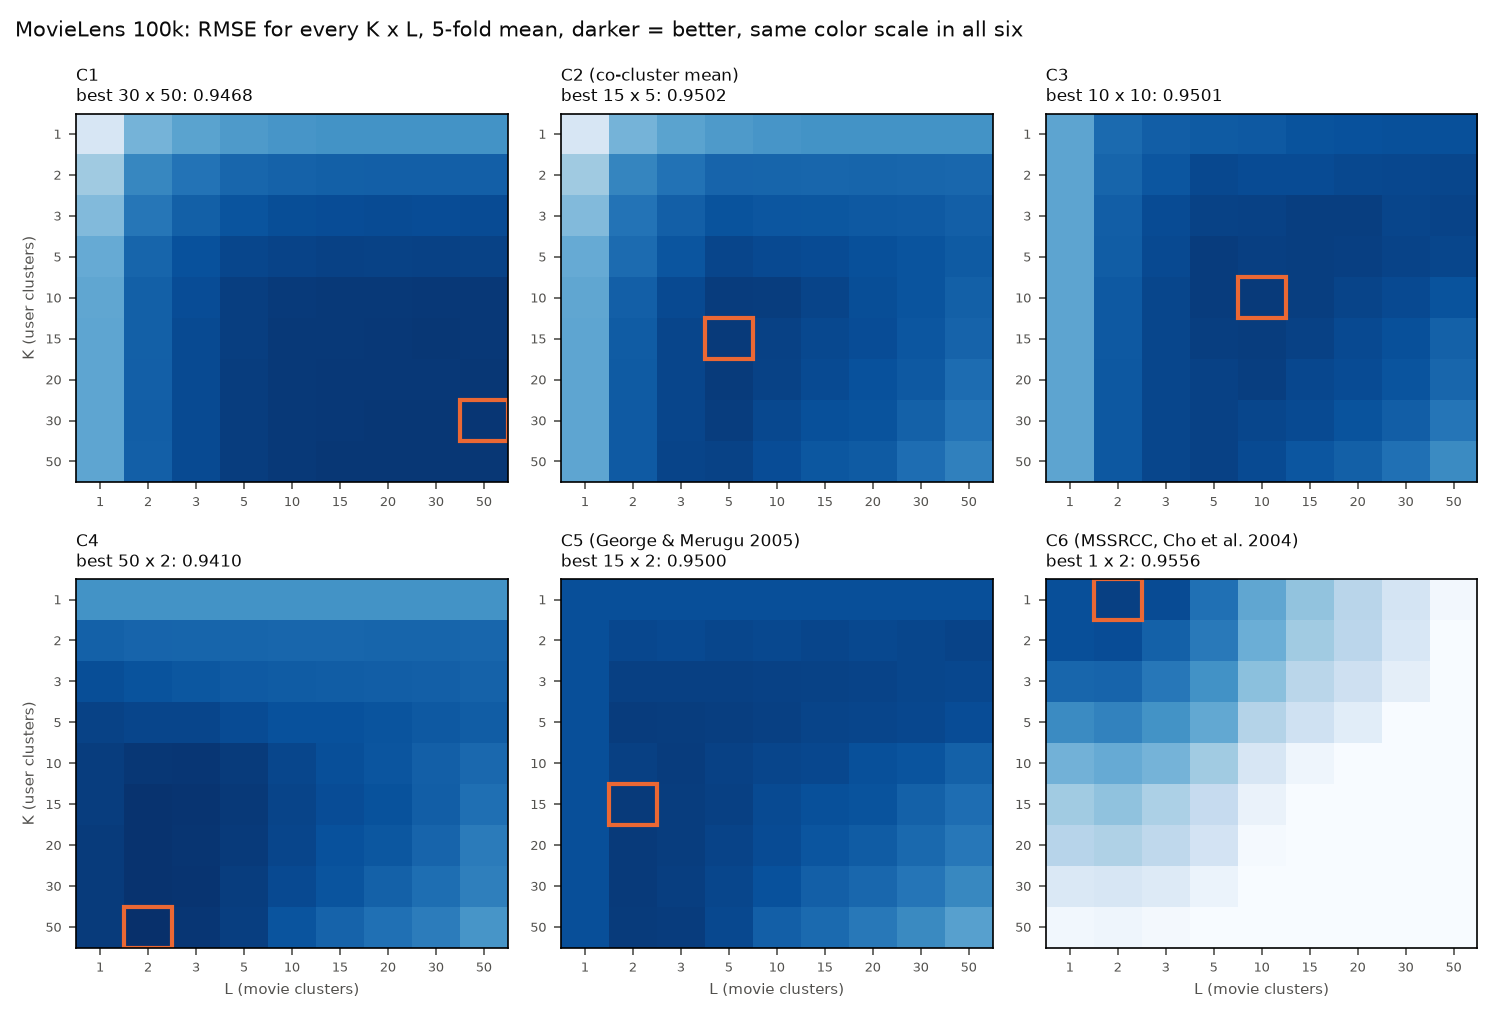
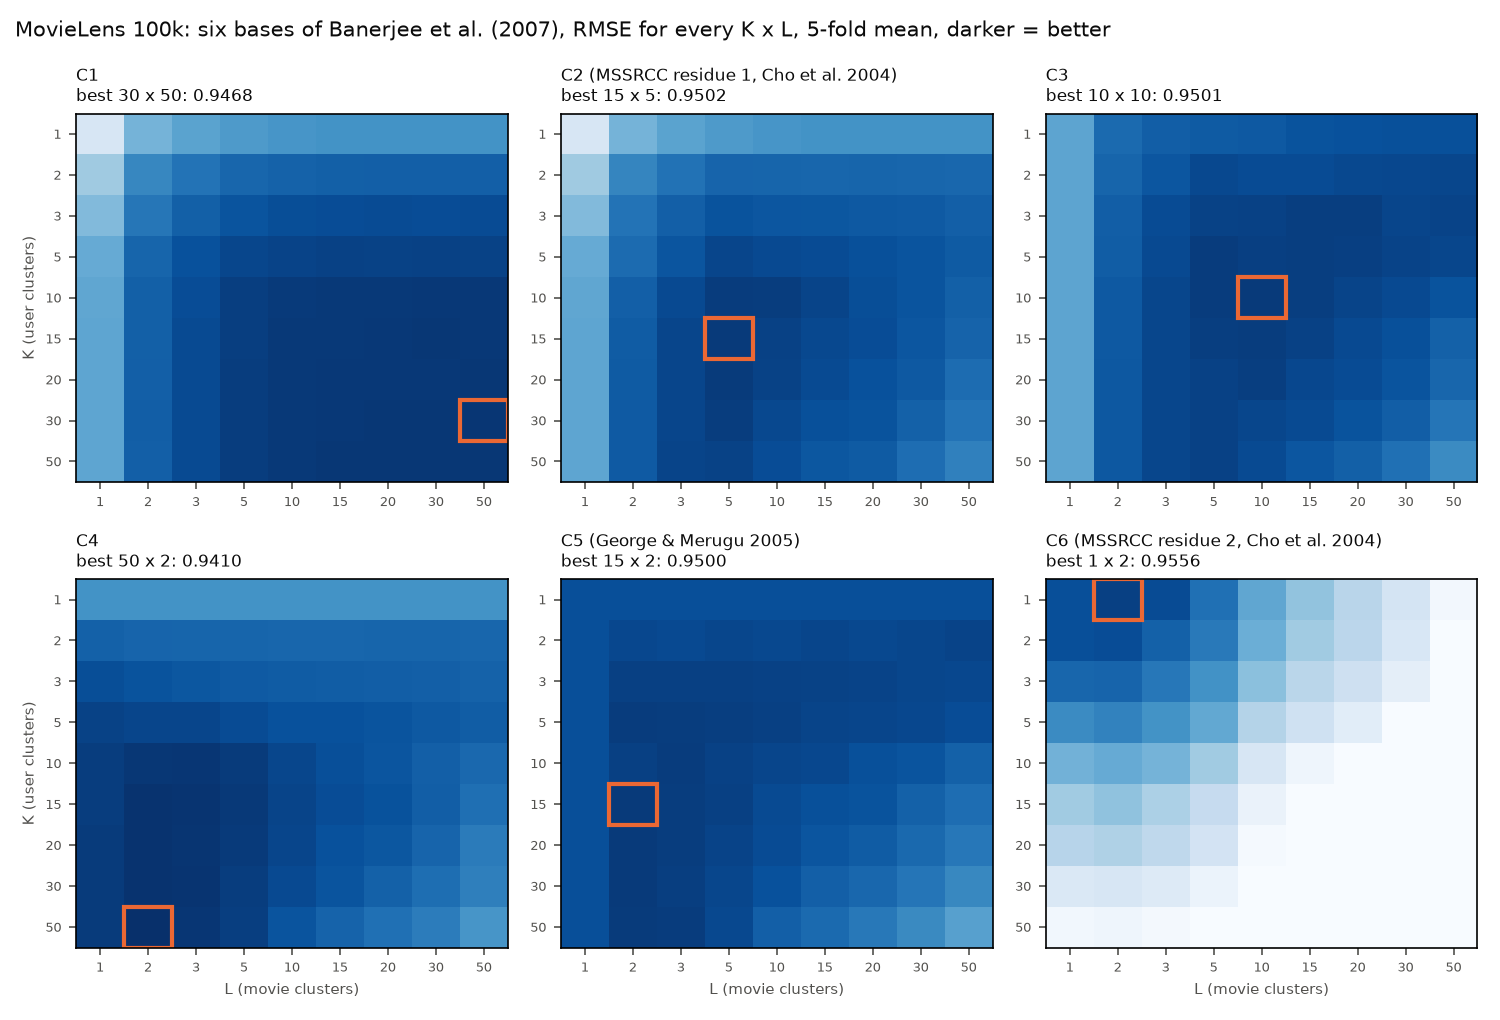
Clarify where each co-clustering basis comes from
All six bases are defined in Banerjee et al. (2007). Figures and the
bases.py docstring now say so, and name earlier work only where the
same scheme was used before: C2 and C6 are the two residues of MSSRCC
(Cho et al., 2004), C5 is George & Merugu (2005).

Changed region(s): [[0.1227, 0.0, 0.6747, 0.0912], [0.7667, 0.5167, 0.92, 0.5471], [0.7053, 0.0, 0.736, 0.0608]]

diff --git a/code/plot_bases.py b/code/plot_bases.py
@@ -22,8 +22,9 @@ BASES = ["C1", "C2", "C3", "C4", "C5", "C6"]
 COLOR = dict(zip(BASES, ["#2a78d6", "#eb6834", "#1baf7a", "#eda100", "#e87ba4", "#008300"]))
 MARK = dict(zip(BASES, ["o", "s", "^", "v", "D", "P"]))
 INK, MUTED, GRID = "#0b0b0b", "#52514e", "#e4e3df"
-NAMES = {"C1": "C1", "C2": "C2 (co-cluster mean)", "C3": "C3", "C4": "C4",
-         "C5": "C5 (George & Merugu 2005)", "C6": "C6 (MSSRCC, Cho et al. 2004)"}
+# all six bases: Banerjee et al. (2007); in brackets: earlier work that used the same scheme
+NAMES = {"C1": "C1", "C2": "C2 (MSSRCC residue 1, Cho et al. 2004)", "C3": "C3", "C4": "C4",
+         "C5": "C5 (George & Merugu 2005)", "C6": "C6 (MSSRCC residue 2, Cho et al. 2004)"}
 TITLES = {"mlsmall": "Dataset 1 (ml-latest-small)", "ml100k": "MovieLens 100k",
           "ml20m": "Dataset 2 (MovieLens 20M)"}
 PROTO = {"random": "random 80/20", "temporal": "temporal 80/20", "kfold": "5-fold CV",
@@ -101,7 +102,7 @@ def plot_3x3(rows):
         ax.set_xticks(range(6), BASES)
         ax.set_title(f"{TITLES[ds]}\n{PROTO[p]}", fontsize=9, color=INK, loc="left")
     axes[0].set_ylabel("RMSE (filled = test, hollow = train)", color=MUTED, fontsize=8)
-    fig.suptitle("Six co-clustering bases, 3 x 3, the gap is overfitting", fontsize=10,
+    fig.suptitle("Six co-clustering bases (Banerjee et al. 2007), 3 x 3, the gap is overfitting", fontsize=10,
                  color=INK, x=0.01, ha="left")
     fig.tight_layout()
     path = os.path.join(OUT, "figures", "bases_3x3.png")
@@ -133,7 +134,7 @@ def plot_square(rows, ds):
     p = rows[0]["protocol"] if rows else ""
     split = "5-fold CV mean" if any(r["dataset"] == ds and r["protocol"] == "kfold"
                                     for r in rows) else "random 80/20"
-    ax.set_title(f"{TITLES[ds]}, six bases, {split}", fontsize=10, color=INK, loc="left")
+    ax.set_title(f"{TITLES[ds]}, the six bases of Banerjee et al. (2007), {split}", fontsize=10, color=INK, loc="left")
     handles = [plt.Line2D([], [], color=COLOR[b], marker=MARK[b], linewidth=2, label=NAMES[b])
                for b in BASES]
     ax.legend(handles=handles, frameon=False, fontsize=7.5, loc="upper left")
@@ -168,8 +169,8 @@ def plot_heat(rows, ds):
         ax.set_xlabel("L (movie clusters)", fontsize=7, color=MUTED)
     for ax in axes[:, 0]:
         ax.set_ylabel("K (user clusters)", fontsize=7, color=MUTED)
-    fig.suptitle(f"{TITLES[ds]}: RMSE for every K x L, 5-fold mean, darker = better, "
-                 f"same color scale in all six", fontsize=10, color=INK, x=0.01, ha="left")
+    fig.suptitle(f"{TITLES[ds]}: six bases of Banerjee et al. (2007), RMSE for every K x L, "
+                 f"5-fold mean, darker = better", fontsize=10, color=INK, x=0.01, ha="left")
     fig.tight_layout()
     path = os.path.join(OUT, "figures", f"bases_heat_{ds}.png")
     fig.savefig(path)

diff --git a/code/bases.py b/code/bases.py
@@ -1,15 +1,16 @@
 """The six co-clustering bases of Banerjee et al. (JMLR 2007), squared error.
+Names on the right: earlier work that used the same scheme.
 
 g = cluster of user u, h = cluster of item i. a = global mean, a_u / a_i =
 user / item mean, a_g / a_h = user / item cluster mean, a_gh = co-cluster mean,
 a_uh = mean of user u over item cluster h, a_gi = mean of item i over user cluster g.
 
     C1  a_g + a_h - a
-    C2  a_gh                                ||A - RR^T A CC^T||
+    C2  a_gh                                MSSRCC residue 1 (Cho et al. 2004), ||A - RR^T A CC^T||
     C3  a_gh + a_u - a_g
     C4  a_gh + a_i - a_h
     C5  a_gh + (a_u - a_g) + (a_i - a_h)    George & Merugu 2005
-    C6  a_uh + a_gi - a_gh                  MSSRCC, Cho et al. 2004
+    C6  a_uh + a_gi - a_gh                  MSSRCC residue 2 (Cho et al. 2004)
 
 Everything except the prediction rule is shared, so differences come from the
 basis. Empty averages fall back to the next coarser one.
